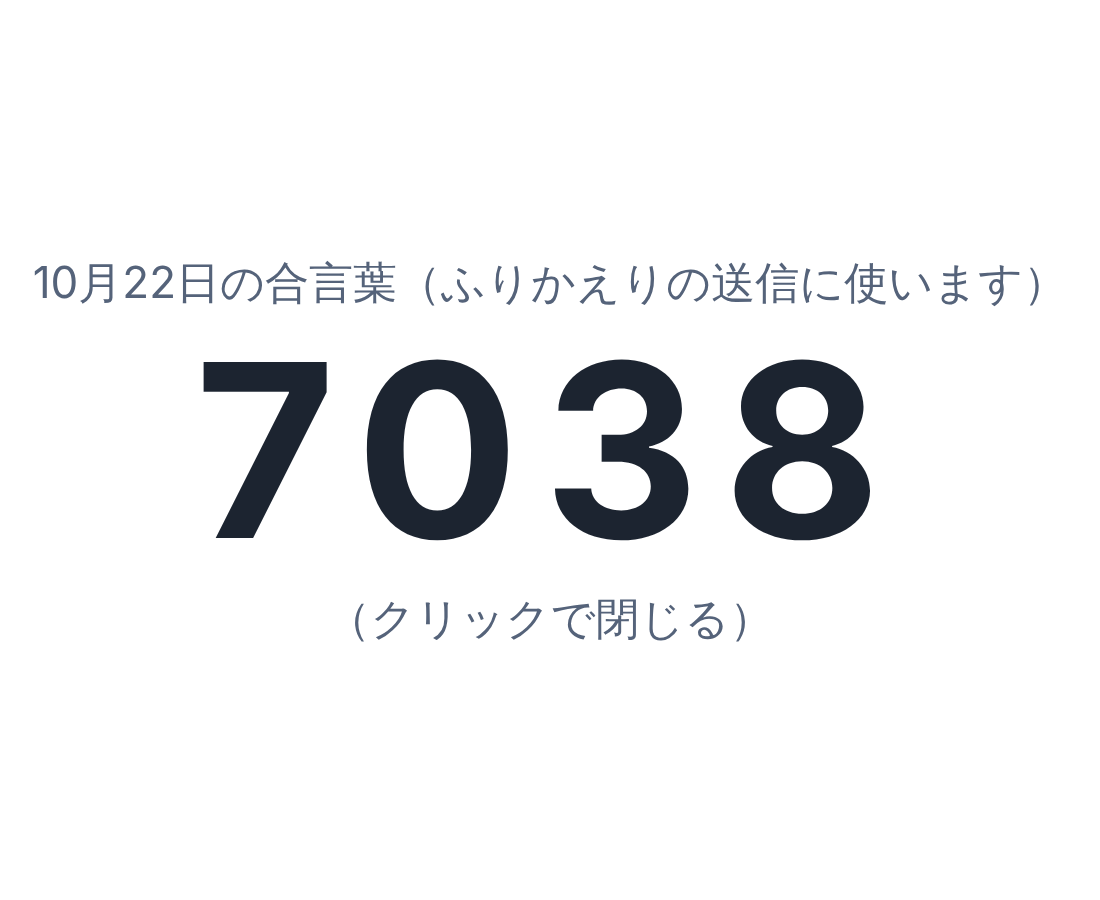
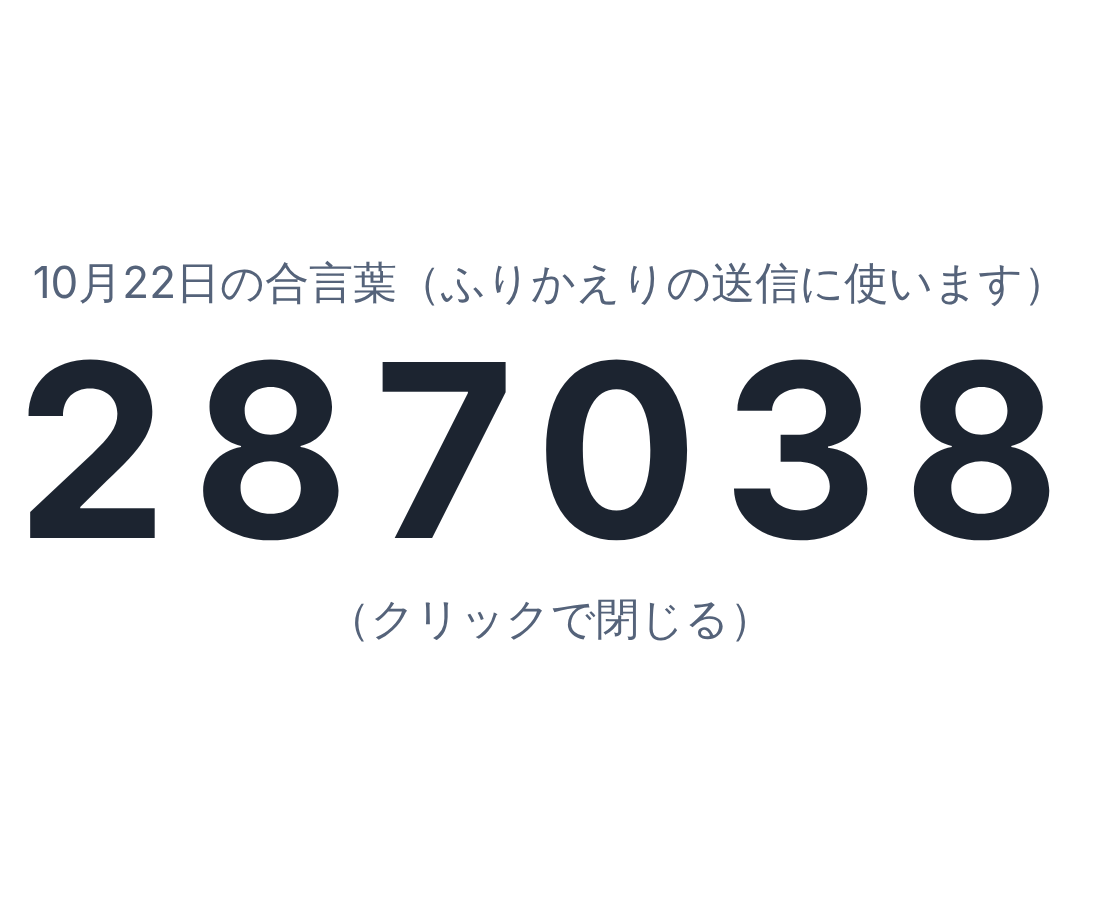
理解度の選ぶ目安を追加し、合言葉を6けたに、先生用パスコードに5回ロックを追加
理解度の選択肢を A 友達に説明できる／B 説明するのは難しい／C 正直、理解できていない にし、目安の文も表示。
毎日自動の合言葉を4けたから6けたにした（総当たりで当てにくくするため）。
先生用パスコードは5回まちがえると30分ロックし、パスコードを設定し直すと解除される。

Claude-Session: https://claude.ai/code/session_01Ndvtn3TrVQ1RMinoZuxXTB

diff --git a/furikaeri/src/Teacher.html b/furikaeri/src/Teacher.html
@@ -117,7 +117,7 @@ tr.picked td{background:#fff1f1}
         <div class="wordnow"><span class="muted" id="wordDate">今日の合言葉</span><b id="wordNow">…</b>
           <button class="btn sub" id="wordShow" style="margin:.2rem 0 .3rem">大きく表示</button></div>
         <div class="wordset">
-          <label><input type="radio" name="wmode" value="daily">毎日自動でかわる（4けたの数字・おすすめ）</label>
+          <label><input type="radio" name="wmode" value="daily">毎日自動でかわる（6けたの数字・おすすめ）</label>
           <label><input type="radio" name="wmode" value="fixed">自分で決める：<input type="text" id="wordFixed" maxlength="20" style="width:10rem" placeholder="例）はんだ"></label>
           <label><input type="radio" name="wmode" value="off">使わない</label>
           <div class="ctrl" style="margin-top:.3rem">
@@ -237,6 +237,7 @@ function call(fn, args, ok, ng){
   r[fn].apply(r, args);
 }
 
+var demoFail = 0;
 var demoApi = {
   getWordSettings: function(p){
     demoApi.teacherLogin(p);
@@ -260,7 +261,16 @@ var demoApi = {
     localStorage.setItem('furikaeri_demo_deleted', JSON.stringify(gone));
     return { deleted: items.length };
   },
-  teacherLogin: function(p){ if (p !== 'demo') throw new Error('パスコードが違います。（体験モードは demo）'); return true; },
+  teacherLogin: function(p){
+    // 本番と同じく、5回まちがえるとロック（体験モードはこのページを開き直すと解除）
+    if (demoFail >= 5) throw new Error('これ以上は入力できません。パスコードを5回まちがえたため、ロックしています。');
+    if (p !== 'demo') {
+      demoFail++;
+      if (demoFail >= 5) throw new Error('これ以上は入力できません。パスコードを5回まちがえたため、ロックしました。');
+      throw new Error('パスコードが違います。（あと' + (5 - demoFail) + '回まちがえると、入力できなくなります。体験モードは demo）');
+    }
+    demoFail = 0; return true;
+  },
   getResponses: function(p, f){
     demoApi.teacherLogin(p);
     var rows = demoSample();
@@ -285,7 +295,7 @@ function todayStr(){
 function demoDaily(day){
   var h = 2166136261;
   for (var i = 0; i < day.length; i++) { h ^= day.charCodeAt(i); h = Math.imul(h, 16777619) >>> 0; }
-  return ('000' + (h % 10000)).slice(-4);
+  return ('00000' + (h % 1000000)).slice(-6);
 }
 function demoSample(){
   var seed = 7;
@@ -339,7 +349,13 @@ function login(p){
     initApp();
   }, function(e){
     try { sessionStorage.removeItem('furikaeri_pass'); } catch(x) {}
-    $('loginMsg').textContent = (e && e.message) || String(e);
+    var msg = (e && e.message) || String(e);
+    $('loginMsg').textContent = msg;
+    // 5回まちがえてロックされたら、入力欄とボタンを使えなくする
+    var locked = msg.indexOf('これ以上は入力できません') >= 0;
+    $('pass').disabled = locked;
+    $('loginForm').querySelector('button').disabled = locked;
+    if (!locked) { $('pass').value = ''; $('pass').focus(); }
   });
 }
 
@@ -417,7 +433,7 @@ function showWord(w){
   $('wordShow').classList.toggle('hidden', w.mode === 'off');
   $('wordFullDate').textContent = (w.mode === 'daily' ? label : '合言葉') + '（ふりかえりの送信に使います）';
   $('wordFullText').textContent = text;
-  $('wordFullText').classList.toggle('long', String(text).length > 5);
+  $('wordFullText').classList.toggle('long', String(text).length > 6);
 }
 function saveWord(renew){
   var m = document.querySelector('input[name=wmode]:checked');

diff --git a/furikaeri/src/Form.html b/furikaeri/src/Form.html
@@ -123,10 +123,11 @@ details.sent summary{cursor:pointer;font-weight:700;color:var(--ink2)}
     <section class="panel" id="secU">
       <h2>① 本時の授業の理解度 <span class="req">必須</span></h2>
       <div class="choices" role="radiogroup" aria-label="理解度">
-        <input type="radio" name="understand" id="u-A" value="A"><label for="u-A"><b>A</b>よく理解できた</label>
-        <input type="radio" name="understand" id="u-B" value="B"><label for="u-B"><b>B</b>だいたい理解できた</label>
-        <input type="radio" name="understand" id="u-C" value="C"><label for="u-C"><b>C</b>あまり理解できなかった</label>
+        <input type="radio" name="understand" id="u-A" value="A"><label for="u-A"><b>A</b>友達に説明できる</label>
+        <input type="radio" name="understand" id="u-B" value="B"><label for="u-B"><b>B</b>わかったが<br>説明するのは難しい</label>
+        <input type="radio" name="understand" id="u-C" value="C"><label for="u-C"><b>C</b>正直、理解できていない</label>
       </div>
+      <p class="hint" style="margin:-.3rem 0 .6rem">選ぶ目安：<b>A</b> 今日の内容を友達に説明できる　<b>B</b> 自分ではわかったが、人に説明するのは難しい　<b>C</b> 正直、まだ理解できていない</p>
       <label class="f" for="uReason">そう思う理由 <span class="req">必須</span><span class="count" id="uCount"></span></label>
       <textarea id="uReason" maxlength="1000" placeholder="例）〇〇のしくみは説明できるが、△△がまだよくわからないから"></textarea>
     </section>
@@ -358,7 +359,7 @@ function demoNorm(w){ return String(w || '').normalize('NFKC').replace(/\s+/g, '
 function demoDaily(day){
   var h = 2166136261;
   for (var i = 0; i < day.length; i++) { h ^= day.charCodeAt(i); h = Math.imul(h, 16777619) >>> 0; }
-  return ('000' + (h % 10000)).slice(-4);
+  return ('00000' + (h % 1000000)).slice(-6);
 }
 function demoWord(){
   var w = store('furikaeri_demo_word') || { mode:'daily', fixed:'' };

diff --git a/furikaeri/README.md b/furikaeri/README.md
@@ -27,7 +27,7 @@
 | 学年・組・出席番号 | 選択式（1年・2年は1〜6組、3年は1〜7組。番号は1〜35番） | ✅ |
 | 時限 | 選択式（1〜6時間目） | ✅ |
 | 氏名 | 自分で入力 | ✅ |
-| ① 本時の授業の理解度 | A よく理解できた／B だいたい理解できた／C あまり理解できなかった | ✅ |
+| ① 本時の授業の理解度 | A 友達に説明できる／B わかったが説明するのは難しい／C 正直、理解できていない（選ぶ目安も表示） | ✅ |
 | 　その理由 | 記述 | ✅ |
 | ② 本時の作業の進捗度 | A 予定より進んだ／B 予定どおり進んだ／C 予定より遅れている | ✅ |
 | 　その理由 | 記述 | ✅ |
@@ -97,7 +97,7 @@
 
 | 方式 | 先生の手間 | 向いている場面 |
 |---|---|---|
-| **毎日自動でかわる**（最初はこれ） | **なし**。先生用ページを開くと「今日の合言葉（4けたの数字）」が表示されるので、それを板書するだけ | ふだんの授業。昨日の合言葉は今日は使えないので、授業後に家から送るなども防げる |
+| **毎日自動でかわる**（最初はこれ） | **なし**。先生用ページを開くと「今日の合言葉（6けたの数字）」が表示されるので、それを板書するだけ | ふだんの授業。昨日の合言葉は今日は使えないので、授業後に家から送るなども防げる |
 | **自分で決める** | 一度決めれば、変えるまで同じ | 「学期中はずっと同じ」でよいとき。覚えやすい言葉にできる |
 | **使わない** | なし | 生徒が学校のアカウントでログインしている場合など |
 
@@ -149,6 +149,7 @@
     → 「パスコードを設定しました」と出て、シートの下に **「回答」シート** ができます
 
 > パスコードは生徒に教えないでください。忘れたときは、同じメニューからいつでも設定し直せます。
+> 先生用ページでパスコードを **5回まちがえると「これ以上は入力できません」と表示され、30分間ロック** されます（正しいパスコードでも入れません）。すぐに解除したいときは、このメニューでパスコードを設定し直してください。
 
 ### C. ウェブアプリとして公開する（デプロイ）
 
@@ -232,7 +233,7 @@
 | 1日に育成ポイントがもらえる回数 | `CONFIG` の `GROW_MAX_PER_DAY: 2` |
 | 時限の欄をなくす | `CONFIG` の `MAX_PERIOD: 6` を `0` に |
 | フォームの見出しの教科名 | `CONFIG` の `SUBJECT: '技術'` |
-| A・B・C の説明文 | Ctrl＋F で `よく理解できた` などを探して書きかえる |
+| A・B・C の説明文 | Ctrl＋F で `友達に説明できる` などを探して書きかえる（選ぶ目安の文も同じ場所にあります） |
 | 年度がかわったとき | スプレッドシートを「ファイル」→「コピーを作成」して新年度用にする（コピーしたものは A.〜C. の B・C をやり直し） |
 
 ## 7. 動作確認
